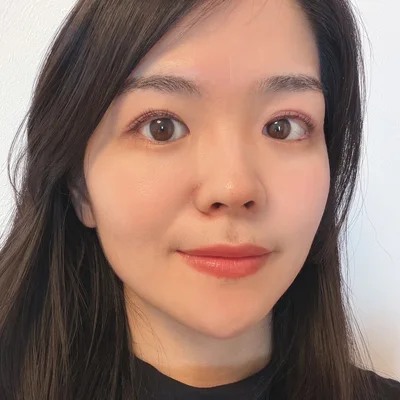
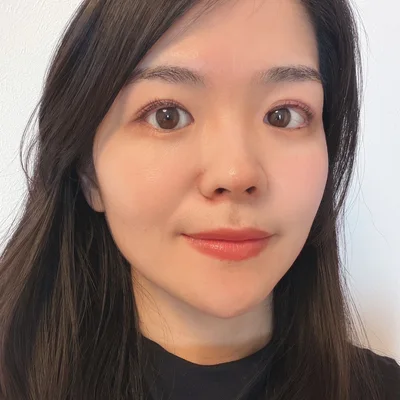
Lesson: widen Emi's crop and cache-bust instructor photos

diff --git a/lesson.html b/lesson.html
@@ -10,7 +10,7 @@
 <link rel="preconnect" href="https://fonts.googleapis.com">
 <link rel="preconnect" href="https://fonts.gstatic.com" crossorigin>
 <link rel="stylesheet" href="https://fonts.googleapis.com/css2?family=Noto+Sans+JP:wght@400;500;700&family=Zen+Kaku+Gothic+New:wght@500;700&family=Tenor+Sans&family=Playfair+Display:wght@400;500;600;700&display=swap">
-<link rel="stylesheet" href="css/style.css?v=1791031723">
+<link rel="stylesheet" href="css/style.css?v=1791032174">
 </head>
 <body>
 
@@ -147,14 +147,14 @@
       <h2 class="section__title">Instructors</h2>
       <div class="instructor-list reveal">
         <div class="instructor"><span class="instructor__mark">M</span><span class="instructor__name">Miyako</span><span class="instructor__role">Owner</span></div>
-        <div class="instructor"><span class="instructor__mark instructor__mark--photo"><img src="assets/instructor-mariko.webp" alt="インストラクター Mariko" width="400" height="400" loading="lazy"></span><span class="instructor__name">Mariko</span></div>
-        <div class="instructor"><span class="instructor__mark instructor__mark--photo"><img src="assets/instructor-rika.webp" alt="インストラクター Rika" width="400" height="400" loading="lazy"></span><span class="instructor__name">Rika</span></div>
-        <div class="instructor"><span class="instructor__mark instructor__mark--photo"><img src="assets/instructor-chiaki.webp" alt="インストラクター Chiaki" width="400" height="400" loading="lazy"></span><span class="instructor__name">Chiaki</span></div>
-        <div class="instructor"><span class="instructor__mark instructor__mark--photo"><img src="assets/instructor-rina.webp" alt="インストラクター Rina" width="400" height="400" loading="lazy"></span><span class="instructor__name">Rina</span></div>
-        <div class="instructor"><span class="instructor__mark instructor__mark--photo"><img src="assets/instructor-emi.webp" alt="インストラクター Emi" width="400" height="400" loading="lazy"></span><span class="instructor__name">Emi</span></div>
-        <div class="instructor"><span class="instructor__mark instructor__mark--photo"><img src="assets/instructor-mika.webp" alt="インストラクター Mika" width="400" height="400" loading="lazy"></span><span class="instructor__name">Mika</span></div>
-        <div class="instructor"><span class="instructor__mark instructor__mark--photo"><img src="assets/instructor-momo.webp" alt="インストラクター Momo" width="400" height="400" loading="lazy"></span><span class="instructor__name">Momo</span></div>
-        <div class="instructor"><span class="instructor__mark instructor__mark--photo"><img src="assets/instructor-rie.webp" alt="インストラクター Rie" width="400" height="400" loading="lazy"></span><span class="instructor__name">Rie</span></div>
+        <div class="instructor"><span class="instructor__mark instructor__mark--photo"><img src="assets/instructor-mariko.webp?v=1791032174" alt="インストラクター Mariko" width="400" height="400" loading="lazy"></span><span class="instructor__name">Mariko</span></div>
+        <div class="instructor"><span class="instructor__mark instructor__mark--photo"><img src="assets/instructor-rika.webp?v=1791032174" alt="インストラクター Rika" width="400" height="400" loading="lazy"></span><span class="instructor__name">Rika</span></div>
+        <div class="instructor"><span class="instructor__mark instructor__mark--photo"><img src="assets/instructor-chiaki.webp?v=1791032174" alt="インストラクター Chiaki" width="400" height="400" loading="lazy"></span><span class="instructor__name">Chiaki</span></div>
+        <div class="instructor"><span class="instructor__mark instructor__mark--photo"><img src="assets/instructor-rina.webp?v=1791032174" alt="インストラクター Rina" width="400" height="400" loading="lazy"></span><span class="instructor__name">Rina</span></div>
+        <div class="instructor"><span class="instructor__mark instructor__mark--photo"><img src="assets/instructor-emi.webp?v=1791032174" alt="インストラクター Emi" width="400" height="400" loading="lazy"></span><span class="instructor__name">Emi</span></div>
+        <div class="instructor"><span class="instructor__mark instructor__mark--photo"><img src="assets/instructor-mika.webp?v=1791032174" alt="インストラクター Mika" width="400" height="400" loading="lazy"></span><span class="instructor__name">Mika</span></div>
+        <div class="instructor"><span class="instructor__mark instructor__mark--photo"><img src="assets/instructor-momo.webp?v=1791032174" alt="インストラクター Momo" width="400" height="400" loading="lazy"></span><span class="instructor__name">Momo</span></div>
+        <div class="instructor"><span class="instructor__mark instructor__mark--photo"><img src="assets/instructor-rie.webp?v=1791032174" alt="インストラクター Rie" width="400" height="400" loading="lazy"></span><span class="instructor__name">Rie</span></div>
       </div>
     </div>
   </section>
@@ -300,6 +300,6 @@
 
 </div>
 
-<script src="js/main.js?v=1791031723"></script>
+<script src="js/main.js?v=1791032174"></script>
 </body>
 </html>

diff --git a/access.html b/access.html
@@ -10,7 +10,7 @@
 <link rel="preconnect" href="https://fonts.googleapis.com">
 <link rel="preconnect" href="https://fonts.gstatic.com" crossorigin>
 <link rel="stylesheet" href="https://fonts.googleapis.com/css2?family=Noto+Sans+JP:wght@400;500;700&family=Zen+Kaku+Gothic+New:wght@500;700&family=Tenor+Sans&family=Playfair+Display:wght@400;500;600;700&display=swap">
-<link rel="stylesheet" href="css/style.css?v=1791031723">
+<link rel="stylesheet" href="css/style.css?v=1791032174">
 </head>
 <body>
 
@@ -202,6 +202,6 @@
 
 </div>
 
-<script src="js/main.js?v=1791031723"></script>
+<script src="js/main.js?v=1791032174"></script>
 </body>
 </html>

diff --git a/faq.html b/faq.html
@@ -10,7 +10,7 @@
 <link rel="preconnect" href="https://fonts.googleapis.com">
 <link rel="preconnect" href="https://fonts.gstatic.com" crossorigin>
 <link rel="stylesheet" href="https://fonts.googleapis.com/css2?family=Noto+Sans+JP:wght@400;500;700&family=Zen+Kaku+Gothic+New:wght@500;700&family=Tenor+Sans&family=Playfair+Display:wght@400;500;600;700&display=swap">
-<link rel="stylesheet" href="css/style.css?v=1791031723">
+<link rel="stylesheet" href="css/style.css?v=1791032174">
 </head>
 <body>
 
@@ -253,6 +253,6 @@
 
 </div>
 
-<script src="js/main.js?v=1791031723"></script>
+<script src="js/main.js?v=1791032174"></script>
 </body>
 </html>

diff --git a/index.html b/index.html
@@ -10,7 +10,7 @@
 <link rel="preconnect" href="https://fonts.googleapis.com">
 <link rel="preconnect" href="https://fonts.gstatic.com" crossorigin>
 <link rel="stylesheet" href="https://fonts.googleapis.com/css2?family=Noto+Sans+JP:wght@400;500;700&family=Zen+Kaku+Gothic+New:wght@500;700&family=Tenor+Sans&family=Playfair+Display:wght@400;500;600;700&display=swap">
-<link rel="stylesheet" href="css/style.css?v=1791031723">
+<link rel="stylesheet" href="css/style.css?v=1791032174">
 </head>
 <body>
 
@@ -312,6 +312,6 @@
 
 </div>
 
-<script src="js/main.js?v=1791031723"></script>
+<script src="js/main.js?v=1791032174"></script>
 </body>
 </html>

diff --git a/online-lesson.html b/online-lesson.html
@@ -10,7 +10,7 @@
 <link rel="preconnect" href="https://fonts.googleapis.com">
 <link rel="preconnect" href="https://fonts.gstatic.com" crossorigin>
 <link rel="stylesheet" href="https://fonts.googleapis.com/css2?family=Noto+Sans+JP:wght@400;500;700&family=Zen+Kaku+Gothic+New:wght@500;700&family=Tenor+Sans&family=Playfair+Display:wght@400;500;600;700&display=swap">
-<link rel="stylesheet" href="css/style.css?v=1791031723">
+<link rel="stylesheet" href="css/style.css?v=1791032174">
 </head>
 <body>
 
@@ -288,6 +288,6 @@
 
 </div>
 
-<script src="js/main.js?v=1791031723"></script>
+<script src="js/main.js?v=1791032174"></script>
 </body>
 </html>

diff --git a/plan.html b/plan.html
@@ -10,7 +10,7 @@
 <link rel="preconnect" href="https://fonts.googleapis.com">
 <link rel="preconnect" href="https://fonts.gstatic.com" crossorigin>
 <link rel="stylesheet" href="https://fonts.googleapis.com/css2?family=Noto+Sans+JP:wght@400;500;700&family=Zen+Kaku+Gothic+New:wght@500;700&family=Tenor+Sans&family=Playfair+Display:wght@400;500;600;700&display=swap">
-<link rel="stylesheet" href="css/style.css?v=1791031723">
+<link rel="stylesheet" href="css/style.css?v=1791032174">
 </head>
 <body>
 
@@ -299,6 +299,6 @@
 
 </div>
 
-<script src="js/main.js?v=1791031723"></script>
+<script src="js/main.js?v=1791032174"></script>
 </body>
 </html>
